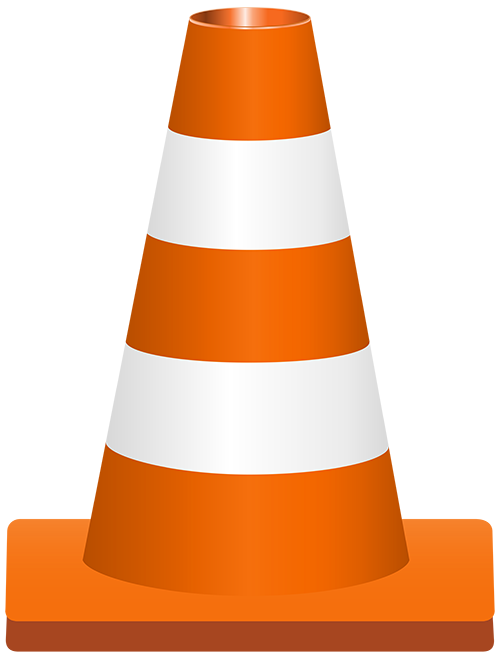
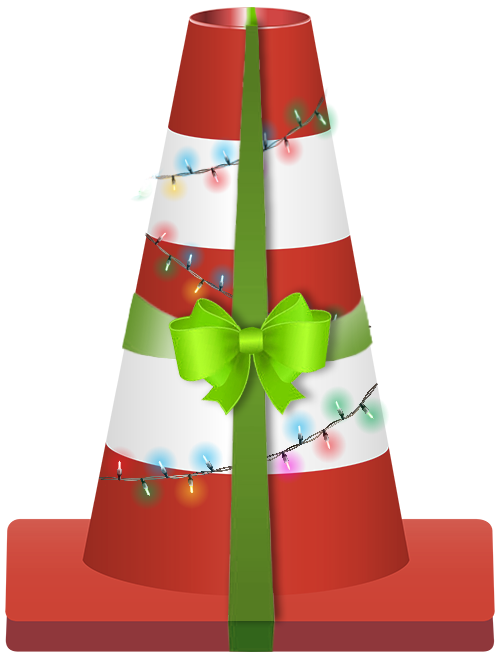
fixed sprite issue and hitbox

diff --git a/public/index.html b/public/index.html
@@ -108,7 +108,7 @@
     <canvas id="world"></canvas>
     <script src="https://cdn.jsdelivr.net/npm/matter-js@0.19.0/build/matter.min.js"></script>
     <script src="https://cdn.jsdelivr.net/npm/pathseg@1.2.1/pathseg.min.js"></script>
-    <!-- <script src="https://cdn.jsdelivr.net/npm/poly-decomp@0.3.0/build/decomp.min.js"></script> -->
+    <script src="https://cdn.jsdelivr.net/npm/poly-decomp@0.3.0/build/decomp.min.js"></script> 
     <!-- NOTE: Used for composite bodies. Unfortunately due to MatterJS
          multiple sprites are applied @ Bodies.fromVertices.
          Could be cool to rework the body with composition in mind
@@ -167,7 +167,7 @@
                     this.currentTopPlayer = null;
                     this.playerSkins = {};
 
-                    this.isSlowMotion = false; 
+                    this.isSlowMotion = false;
 
                     this.setupGround();
                     this.setupEvents();
@@ -258,19 +258,19 @@
                     return this.coneManager.availableSkins[this.playerSkins[name]] || this.coneManager.availableSkins.default;
                 }
 
-                
+
                 triggerSlowMotion() {
-                    if (this.isSlowMotion) return; 
+                    if (this.isSlowMotion) return;
                     this.isSlowMotion = true;
-                    this.engine.timing.timeScale = 0.2; 
+                    this.engine.timing.timeScale = 0.2;
                     console.log('Slow motion triggered!');
 
-                    
+
                     setTimeout(() => {
                         this.engine.timing.timeScale = 1;
                         this.isSlowMotion = false;
                         console.log('Slow motion ended.');
-                    }, 3500); 
+                    }, 3500);
                 }
             }
 
@@ -365,16 +365,64 @@
                     this.celebrated = false;
                     this.stationaryTimer = null;
                     this.fadeInterval = null;
+                    this.opacity = 1.0;
+  
 
-                    this.body = Bodies.fromVertices(
-                        positionX,
-                        window.innerHeight - 85,
-                        [coneVertices],
-                        this.getBodyOptions(texture),
-                        true
-                    );
-                    Body.setStatic(this.body, true);
-                    Composite.add(this.world, this.body);
+
+                    if (DEBUG_MODE) {
+
+                        this.body = Matter.Bodies.fromVertices(
+                            positionX,
+                            window.innerHeight - 85,
+                            coneVertices,
+                            {
+                                restitution: 0.55,
+                                density: 0.01,
+                                friction: 0.1,
+                                frictionAir: 0.02,
+                                render: {
+                                    fillStyle: 'orange',
+                                    strokeStyle: 'black',
+                                    lineWidth: 1,
+                                    visible: true,
+                                },
+                            },
+                            true
+                        );
+                    } else {
+
+                        this.body = Matter.Bodies.fromVertices(
+                            positionX,
+                            window.innerHeight - 85,
+                            coneVertices,
+                            {
+                                restitution: 0.55,
+                                density: 0.01,
+                                friction: 0.1,
+                                frictionAir: 0.02,
+                                render: {
+                                    visible: false,
+                                },
+                            },
+                            true
+                        );
+                    }
+
+                    Matter.Body.setStatic(this.body, true);
+                    Matter.Composite.add(this.world, this.body);
+                    if (!DEBUG_MODE) {
+                        this.texture = new Image();
+                        this.texture.src = texture;
+                        this.textureWidth = 488.1 * 0.24;
+                        this.textureHeight = 645.4 * 0.24;
+                        this.textureLoaded = false;
+                        this.texture.onload = () => {
+                            this.textureLoaded = true;
+                        };
+                        this.canvas = this.gameManager.render.canvas;
+                        this.context = this.gameManager.render.context;
+                    }
+
 
                     this.nameElement = document.createElement('span');
                     this.nameElement.textContent = name;
@@ -384,61 +432,36 @@
                     this.updateNameLabelPosition();
                 }
 
-                getBodyOptions(texture) {
-                    return {
-                        restitution: 0.55,
-                        density: 0.01,
-                        friction: 0.1,
-                        frictionAir: 0.02,
-                        render: DEBUG_MODE
-                            ? {
-                                fillStyle: 'orange',
-                                strokeStyle: 'black',
-                                lineWidth: 1,
-                            }
-                            : {
-                                sprite: {
-                                    texture: texture,
-                                    xScale: 0.24,
-                                    yScale: 0.24,
-                                },
-                                strokeStyle: 'black',
-                                lineWidth: 2,
-                                opacity: 1,
-                            },
-                    };
-                }
-
                 launch() {
-                    Body.setStatic(this.body, false);
+                    Matter.Body.setStatic(this.body, false);
                     this.applyRandomUpwardForceAndSpin();
                     this.hasLaunched = true;
-
-                    
                     setTimeout(() => {
-                                        
-                        if (Math.random() < 1 / slowOdds) {
+                        if (Math.random() < 1 / this.gameManager.slowOdds) {
                             this.gameManager.triggerSlowMotion();
                         }
-                    }, 500); 
+                    }, 500);
                 }
 
                 applyRandomUpwardForceAndSpin() {
-                    const upwardForceMultiplier = 14;
+                    const upwardForceMultiplier = 12;
                     const forceMagnitude = upwardForceMultiplier + Math.random() * 0.05;
                     const horizontalForce = (Math.random() - 0.5) * 0.1;
                     const force = { x: horizontalForce, y: -forceMagnitude };
-                    Body.applyForce(this.body, this.body.position, force);
-
+                    Matter.Body.applyForce(this.body, this.body.position, force);
                     const angularVelocity = 0.2 + Math.random() * 0.8;
                     const spinDirection = Math.random() > 0.5 ? 1 : -1;
-                    Body.setAngularVelocity(this.body, angularVelocity * spinDirection);
+                    Matter.Body.setAngularVelocity(this.body, angularVelocity * spinDirection);
                 }
 
                 update() {
                     this.updateNameLabelPosition();
                     this.handleStatus();
-                    this.checkOffScreen(); 
+                    this.checkOffScreen();
+
+                    if (!DEBUG_MODE) {
+                        this.renderTexture();
+                    }
                 }
 
                 updateNameLabelPosition() {
@@ -446,25 +469,26 @@
                     this.nameElement.style.left = `${this.body.position.x - this.nameElement.offsetWidth / 2}px`;
                 }
 
-                isUpright() {
-                    const worldUpY = -Math.cos(this.body.angle);
-                    return Math.abs(worldUpY - -1) < 0.2;
-                }
+                renderTexture() {
+                    if (!this.textureLoaded) return;
+                    const context = this.context;
+                    const body = this.body;
+                    context.save();
 
-                startFadeOut() {
-                    let opacity = 1.0;
-                    this.fadeInterval = setInterval(() => {
-                        opacity -= 0.01;
-                        if (opacity <= 0) {
-                            opacity = 0;
-                            clearInterval(this.fadeInterval);
-                            this.nameElement.remove();
-                            Composite.remove(this.world, this.body);
-                            this.coneManager.removeCone(this);
-                        }
-                        this.body.render.opacity = opacity;
-                        this.nameElement.style.opacity = opacity;
-                    }, 10);
+                    context.translate(body.position.x, body.position.y);
+
+                    context.rotate(body.angle);
+
+                    context.globalAlpha = this.opacity;
+                    context.drawImage(
+                        this.texture,
+                        -this.textureWidth / 2,
+                        -this.textureHeight / 2,
+                        this.textureWidth,
+                        this.textureHeight
+                    );
+
+                    context.restore();
                 }
 
                 handleStatus() {
@@ -504,31 +528,48 @@
                     }
                 }
 
-                
+                isUpright() {
+                    let angle = this.body.angle % (2 * Math.PI);
+                    if (angle < 0) angle += 2 * Math.PI;
+                    const uprightTolerance = 0.2;
+                    return (
+                        angle < uprightTolerance ||
+                        angle > (2 * Math.PI - uprightTolerance) ||
+                        Math.abs(angle - Math.PI) < uprightTolerance
+                    );
+                }
+
+                startFadeOut() {
+                    this.fadeInterval = setInterval(() => {
+                        this.opacity -= 0.01;
+                        if (this.opacity <= 0) {
+                            this.opacity = 0;
+                            clearInterval(this.fadeInterval);
+                            this.nameElement.remove();
+                            Matter.Composite.remove(this.world, this.body);
+                            this.coneManager.removeCone(this);
+                        }
+                        this.nameElement.style.opacity = this.opacity;
+                    }, 10);
+                }
+
                 checkOffScreen() {
-                    const buffer = 100; 
+                    const buffer = 100;
                     if (
                         this.body.position.y > window.innerHeight + buffer ||
                         this.body.position.x < -buffer ||
                         this.body.position.x > window.innerWidth + buffer
                     ) {
                         this.remove();
-                        console.log("Killed yeeted cone.")
+                        console.log("Removed off-screen cone.");
                     }
                 }
 
-                
                 remove() {
-                    
                     this.nameElement.remove();
-
-                    
-                    Composite.remove(this.world, this.body);
-
-                    
+                    Matter.Composite.remove(this.world, this.body);
                     this.coneManager.removeCone(this);
 
-                    
                     if (this.stationaryTimer) {
                         clearTimeout(this.stationaryTimer);
                         this.stationaryTimer = null;
@@ -539,6 +580,7 @@
                     }
                 }
             }
+
 
 
             const triggerConfetti = (position) => {
@@ -565,11 +607,7 @@
                 const playerImage = document.getElementById("player-image");
                 const playerName = document.getElementById("player-name");
                 const audio = document.getElementById("newGold");
-
-
                 playerName.textContent = name;
-
-
                 container.classList.remove("hidden");
 
 
